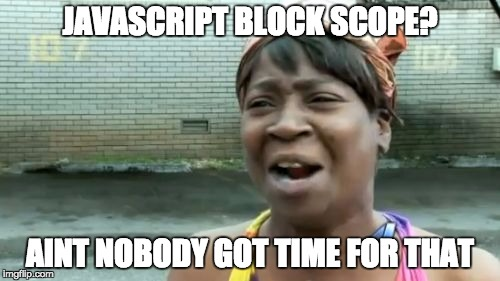
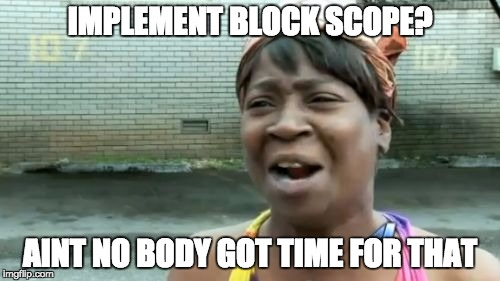
minor

Changed region(s): [[0.03, 0.8256, 0.96, 0.968], [0.12, 0.0, 0.9, 0.1423]]

diff --git a/content/posts/2015/2015-08-01_typescript-vs-haxe.md b/content/posts/2015/2015-08-01_typescript-vs-haxe.md
@@ -262,7 +262,7 @@ trace(a); // error: Unknown identifier : a
 Generally, block scope is a better choice for a block-structured language. In fact, the creator of the JavaScript, [Brendan Eich](https://en.wikipedia.org/wiki/Brendan_Eich), admitted that the design decision was made [due to a lack of time](https://twitter.com/brendaneich/status/349768501583548416).
 
 <span class="center">
-![JavaScript block scope? Aint nobody got time for that!](this>files/2015/js-block-scope-meme.jpg)
+![Implement block scope? Aint nobody got time for that!](this>files/2015/js-block-scope-meme.jpg)
 </span>
 
 Of course, the ES6 block scoped `let` declaration is also supported by TypeScript. But it is kind of a pity that TypeScript has to maintain the old scoping strategy of `var` and goes to support `let` instead of "fixing" `var` declaration directly like Haxe...
@@ -351,7 +351,7 @@ The same code above in Haxe will cause an compilation error and no output is pro
 
 Unlike Haxe, TypeScript has a few unsound cases. http://www.typescriptlang.org/Handbook#type-inference
 
-We can see that, Haxe is even more "typed" (has stricter typing) than TypeScript. On one hand, TypeScript being forgiving on typing error may be handy when we know what we're doing. On the other hand, I'm not sure if it is good because it will somehow encourage people to ignore typing errors instead of properly type it. One historical example of being error-forgiving caused issues in the long term is Internet Explorer. IE was so forgiving that people didn't care about syntax errors nor web standards... Well, it is [good for end users](http://blog.codinghorror.com/javascript-and-html-forgiveness-by-default/), but surely bad for developers. Maybe it has become a Microsoft tradition - to encourage bad coding practice via forgiveness :(
+We can see that, Haxe is even more "typed" (has stricter typing) than TypeScript. On the one hand, TypeScript being forgiving on typing error may be handy when we know what we're doing. On the other hand, I'm not sure if it is good because it will somehow encourage people to ignore typing errors instead of properly type it. One historical example of being error-forgiving caused issues in the long term is Internet Explorer. IE was so forgiving that people didn't care about syntax errors nor web standards... Well, it is [good for end users](http://blog.codinghorror.com/javascript-and-html-forgiveness-by-default/), but surely bad for developers. Maybe it has become a Microsoft tradition - to encourage bad coding practice via forgiveness :(
 
 ### Code organization and generation
 
